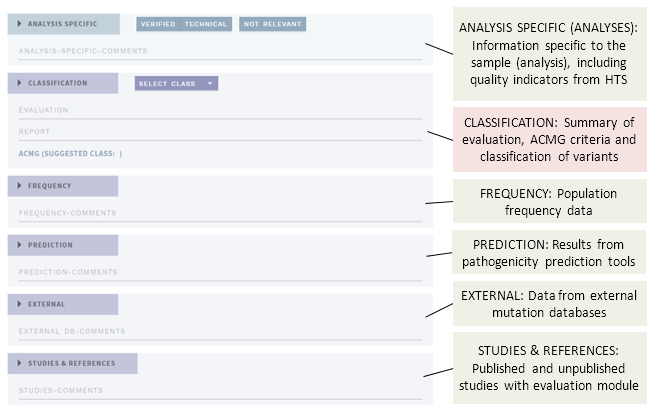
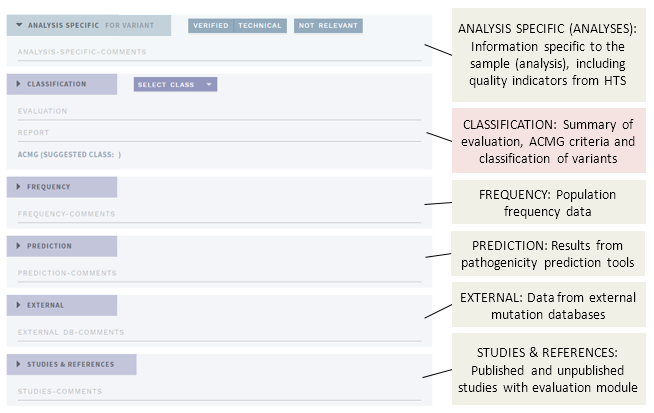
Updated docs to reflect header change.

diff --git a/docs/manual/evidence-sections.md b/docs/manual/evidence-sections.md
@@ -15,7 +15,7 @@ The different sections presenting annotation evidence are described below, see t
 
 ## Analysis specific (ANALYSES only)
 
-This section is specific to the current sample (analysis) and displays indicators of the quality of the variant calling (HTS data, ANALYSES mode only).
+This section is for information and actions specific to the variant as observed in the current sample (analysis), and displays indicators of the quality of the variant calling (HTS data, ANALYSES mode only).
 
 ::: warning Note
 This is the only section on this page that is specific to the sample (analysis), all other sections are tied to the variant interpretation, which is independent of samples. This also means that any comments you add here will be visible in this analysis only.
